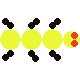
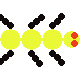
mouvement ennemi rapide

diff --git a/src/Ennemi.cpp b/src/Ennemi.cpp
@@ -1,7 +1,7 @@
 #include "Ennemi.h"
 #include <math.h>
 
-Ennemi::Ennemi(int x, int y, SDL_Texture* textureEnnemi, int vie, double multiplicateurVitesse, double multiplicateurArgentMort, int vague, bool estAerien,int xChateau,int yChateau):
+Ennemi::Ennemi(int x, int y, SDL_Texture* textureEnnemi, int vie, double multiplicateurVitesse, double multiplicateurArgentMort, int vague, bool estAerien,int xChateau,int yChateau,int type):
     vie(vie+(vie*20*(vague+1)/100)),
     vieMax(this->vie),
     direction(0),
@@ -11,6 +11,7 @@ Ennemi::Ennemi(int x, int y, SDL_Texture* textureEnnemi, int vie, double multipl
     poison(false),
     x(x),
     y(y),
+    type(type),
     intensitePoison(0),
     destVie({x, y, 3*TAILLE_CASE/4, TAILLE_CASE/6}),
     destVieFond({x, y, 3*TAILLE_CASE/4, TAILLE_CASE/6}),
@@ -70,7 +71,41 @@ void Ennemi::affiche()
         }
 
     }else{
-        SDL_RenderCopy(renderer, textureEnnemi, NULL, &dest);
+        if(direction==0){
+            angle=0;
+        }else if(direction==1){
+            angle=-90;
+        }else if(direction==2){
+            angle=180;
+        }else if(direction==3){
+            angle=90;
+        }
+
+        if(type==1){
+            int limite =2;
+
+           if(numImage<limite){
+                SDL_RenderCopyEx(renderer, textureEnnemiRapide[0], NULL, &dest, angle, NULL, SDL_FLIP_NONE);
+                numImage++;
+
+            }else if(numImage<limite*2){
+                SDL_RenderCopyEx(renderer, textureEnnemiRapide[1], NULL, &dest, angle, NULL, SDL_FLIP_NONE);
+                numImage++;
+
+            }else if (numImage<limite*3){
+                SDL_RenderCopyEx(renderer, textureEnnemiRapide[2], NULL, &dest, angle, NULL, SDL_FLIP_NONE);
+                numImage++;
+            }else if(numImage<limite*4){
+                SDL_RenderCopyEx(renderer, textureEnnemiRapide[3], NULL, &dest, angle, NULL, SDL_FLIP_NONE);
+                numImage++;
+                if(numImage==limite*4){
+                    numImage=0;
+                }
+            }
+
+        }else{
+            SDL_RenderCopy(renderer, textureEnnemi, NULL, &dest);
+        }
     }
 
 

diff --git a/main.cpp b/main.cpp
@@ -27,7 +27,7 @@ SDL_Texture  *textureCase,
              *textureTourSniperCanon,
 
              *textureEnnemiClassique,
-             *textureEnnemiRapide,
+             *textureEnnemiRapideSimple,
              *textureEnnemiTank,
              *textureEnnemiVolantSimple,
 
@@ -37,6 +37,7 @@ SDL_Texture  *textureCase,
              *textureExplosion[TEMPS_ANIM_TIR],
 
              *textureEnnemiVolant[nbImageEnnemiVolant],
+             *textureEnnemiRapide[4],
 
              *textureBpTourSniper,
              *textureBpTourClassique,
@@ -825,7 +826,7 @@ int initSDL()
     SDL_FreeSurface(surface);
 
     surface=IMG_Load((CHEMIN_IMAGES+"ennemiRapide.png").c_str());
-    textureEnnemiRapide= SDL_CreateTextureFromSurface(renderer, surface);
+    textureEnnemiRapideSimple= SDL_CreateTextureFromSurface(renderer, surface);
     SDL_FreeSurface(surface);
 
     surface=IMG_Load((CHEMIN_IMAGES+"ennemiTank.png").c_str());
@@ -848,6 +849,11 @@ int initSDL()
         cout<<CHEMIN_IMAGES+"ennemiVolant"+to_string(i)+".png"<<endl;
         surface=IMG_Load((CHEMIN_IMAGES+"ennemiVolant"+to_string(i)+".png").c_str());
         textureEnnemiVolant[i]= SDL_CreateTextureFromSurface(renderer, surface);
+        SDL_FreeSurface(surface);
+    }
+    for(int i=0;i<4;i++){
+        surface=IMG_Load((CHEMIN_IMAGES+"ennemiRapide"+to_string(i)+".png").c_str());
+        textureEnnemiRapide[i]= SDL_CreateTextureFromSurface(renderer, surface);
         SDL_FreeSurface(surface);
     }
 

diff --git a/include/Ennemi.h b/include/Ennemi.h
@@ -13,7 +13,7 @@ class Ennemi;
 class Ennemi
 {
     public:
-        Ennemi(int x, int y, SDL_Texture* textureEnnemi, int vie, double multiplicateurVitesse, double multiplicateurArgentMort, int vague, bool estVolant,int xChateau,int yChateau);
+        Ennemi(int x, int y, SDL_Texture* textureEnnemi, int vie, double multiplicateurVitesse, double multiplicateurArgentMort, int vague, bool estVolant,int xChateau,int yChateau,int type);
         virtual ~Ennemi();
         void affiche();
         void action();
@@ -46,7 +46,8 @@ class Ennemi
             poison,
             angle,
             intensitePoison,
-            numImage;
+            numImage,
+            type;
         SDL_Rect destVie,
                  destVieFond;
         double multiplicateurVitesse,

diff --git a/include/VariablesSDL.h b/include/VariablesSDL.h
@@ -15,7 +15,7 @@ extern SDL_Texture  *textureCase,
                     *textureTourSniperCanon,
 
                     *textureEnnemiClassique,
-                    *textureEnnemiRapide,
+                    *textureEnnemiRapideSimple,
                     *textureEnnemiTank,
                     *textureEnnemiVolantSimple,
 
@@ -23,6 +23,7 @@ extern SDL_Texture  *textureCase,
                     *textureTirSniper,
 
                     *textureEnnemiVolant[nbImageEnnemiVolant],
+                    *textureEnnemiRapide[4],
 
                     *textureExplosion[TEMPS_ANIM_TIR];
 

diff --git a/src/EnnemiClassique.cpp b/src/EnnemiClassique.cpp
@@ -1,7 +1,7 @@
 #include "EnnemiClassique.h"
 
 EnnemiClassique::EnnemiClassique(int x, int y, int vague,int xChateau,int yChateau):
-    Ennemi(x, y, ::textureEnnemiClassique, 150,2,1, vague, false,xChateau,yChateau)
+    Ennemi(x, y, ::textureEnnemiClassique, 150,2,1, vague, false,xChateau,yChateau,0)
 {
     //ctor
 }

diff --git a/src/EnnemiRapide.cpp b/src/EnnemiRapide.cpp
@@ -1,7 +1,7 @@
 #include "EnnemiRapide.h"
 
 EnnemiRapide::EnnemiRapide(int x, int y, int vague,int xChateau,int yChateau):
-    Ennemi(x, y, ::textureEnnemiRapide, 100,3,1, vague, false,xChateau,yChateau)
+    Ennemi(x, y, ::textureEnnemiRapideSimple, 100,3,1, vague, false,xChateau,yChateau,1)
 {
     //ctor
 }

diff --git a/src/EnnemiTank.cpp b/src/EnnemiTank.cpp
@@ -1,7 +1,7 @@
 #include "EnnemiTank.h"
 
 EnnemiTank::EnnemiTank(int x, int y, int vague,int xChateau,int yChateau):
-    Ennemi(x, y, ::textureEnnemiTank, 800,1,2, vague, false, xChateau,yChateau)
+    Ennemi(x, y, ::textureEnnemiTank, 800,1,2, vague, false, xChateau,yChateau,2)
 {
     //ctor
 }

diff --git a/src/EnnemiVolant.cpp b/src/EnnemiVolant.cpp
@@ -2,7 +2,7 @@
 
 EnnemiVolant::EnnemiVolant(int x, int y, int vague,int xChateau,int yChateau):
 
-    Ennemi(x, y, ::textureEnnemiVolantSimple, 50,2,3, vague, true,xChateau,yChateau)
+    Ennemi(x, y, ::textureEnnemiVolantSimple, 50,2,3, vague, true,xChateau,yChateau,3)
 
 {
 
